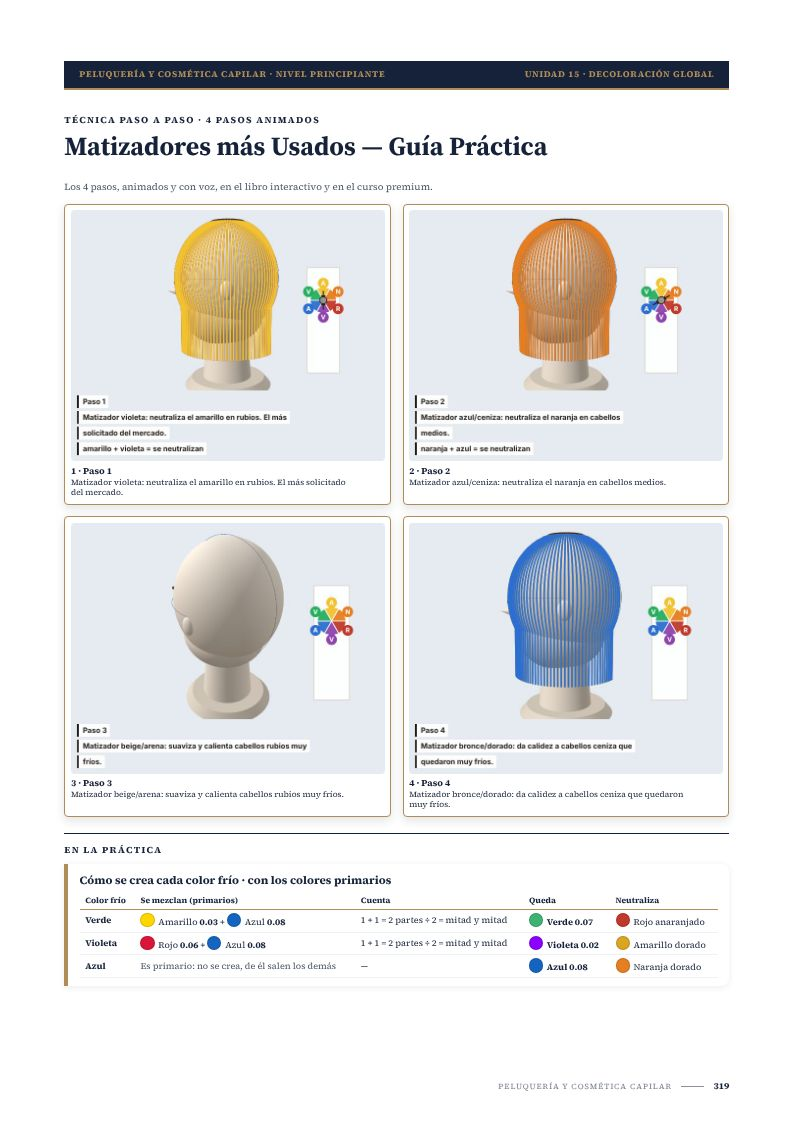
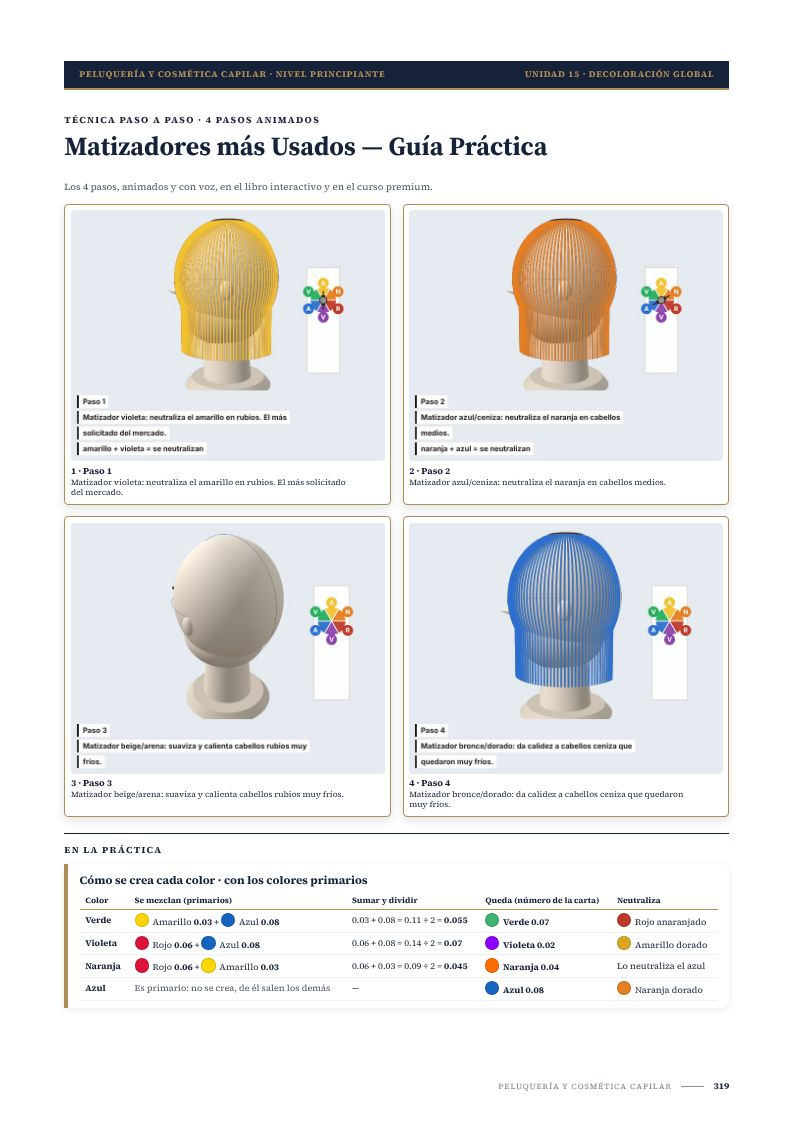
Peluquería: Matizadores más usados con la cuenta de sumar y dividir de cada mezcla de primarios y el número real de su carta
Claude-Session: https://claude.ai/code/session_011Pq1vHithoFwSmhgWbaCLQ

Changed region(s): [[0.1209, 0.7785, 0.8766, 0.903], [0.0605, 0.8719, 0.0907, 0.903]]

diff --git a/b6_pelu_llenar.js b/b6_pelu_llenar.js
@@ -121,7 +121,7 @@
      crea mezclando dos primarios mitad y mitad (1 + 1 = 2 partes ÷ 2), con los números REALES de su carta de correctores
      (EU_COLOR_CEREBRO.calc.colores.Correctores: amarillo, rojo, azul, verde, violeta); el azul es primario y no se crea. Al lado,
      lo que neutraliza cada frío según su estrella (calc.estrella). */
-  var MEZ = [['Verde', /^verde/i, [/^amarillo/i, /^azul/i], /verde/i], ['Violeta', /^violeta/i, [/^rojo/i, /^azul/i], /violeta/i], ['Azul', /^azul/i, null, /ceniza$/i]];
+  var MEZ = [['Verde', /^verde/i, [/^amarillo/i, /^azul/i], /verde/i], ['Violeta', /^violeta/i, [/^rojo/i, /^azul/i], /violeta/i], ['Naranja', /^naranja/i, [/^rojo/i, /^amarillo/i], null, 'Lo neutraliza el azul'], ['Azul', /^azul/i, null, /ceniza$/i]];
   function friosEstrella() {
     var B = window.EU_COLOR_CEREBRO, C = B && B.calc && B.calc.colores, K = C && C.Correctores, E = (B && B.calc && B.calc.estrella) || []; if (!K) return null;
     var de = function (re) { return K.filter(function (t) { return re.test(t.n || ''); })[0] || null; };
@@ -129,10 +129,10 @@
     MEZ.forEach(function (M) {
       var t = de(M[1]); if (!t) return;
       var p = M[2] ? M[2].map(de) : null; if (M[2] && (!p[0] || !p[1])) return;
-      var es = E.filter(function (e) { return M[3].test(String(e.c || '').replace(/\s+intenso$/i, '')); })[0];
-      filas.push({ fam: M[0], t: t, p: p, neu: es ? es.p : '', neuh: es ? es.ph : '' });
+      var es = M[3] ? E.filter(function (e) { return M[3].test(String(e.c || '').replace(/\s+intenso$/i, '')); })[0] : null;
+      filas.push({ fam: M[0], t: t, p: p, neu: es ? es.p : (M[4] || ''), neuh: es ? es.ph : '' });
     });
-    return filas.length ? { k: 'frios', keys: ['frios'], t: 'Cómo se crea cada color frío · con los colores primarios', filas: filas } : null;
+    return filas.length ? { k: 'frios', keys: ['frios'], t: 'Cómo se crea cada color · con los colores primarios', filas: filas } : null;
   }
   function esquemaFrios(x, T) {
     var acc = T.acc || '#16223A', acc2 = T.acc2 || '#B08D57', soft = T.soft || '#EEF1F6', ink = T.ink || '#16223A';
@@ -142,13 +142,14 @@
     var th = 'text-align:left;padding:.6mm 1.5mm;font-size:.92em;color:' + acc + ';border-bottom:.5mm solid ' + acc2;
     var filas = x.filas.map(function (f) {
       var mezcla = f.p ? pt(f.p[0].h) + nom(f.p[0]) + ' <b>' + esc(f.p[0].c) + '</b> + ' + pt(f.p[1].h) + nom(f.p[1]) + ' <b>' + esc(f.p[1].c) + '</b>' : '<span style="opacity:.8">Es primario: no se crea, de él salen los demás</span>';
-      var cuenta = f.p ? '1 + 1 = 2 partes ÷ 2 = mitad y mitad' : '—';
+      /* 22-11-2026 (Fátima eligió «cuenta + número de la carta»): la suma y la división de los dos números, tal cual, y en «Queda» el número real del color en su carta */
+      var sum = f.p ? +(+f.p[0].c + +f.p[1].c).toFixed(4) : 0, cuenta = f.p ? esc(f.p[0].c) + ' + ' + esc(f.p[1].c) + ' = ' + String(sum) + ' ÷ 2 = <b>' + String(+(sum / 2).toFixed(4)) + '</b>' : '—';
       return '<tr><td style="' + td + '"><b>' + esc(f.fam) + '</b></td><td style="' + td + '">' + mezcla + '</td><td style="' + td + '">' + cuenta + '</td>' +
-        '<td style="' + td + '">' + pt(f.t.h) + '<b>' + nom(f.t) + ' ' + esc(f.t.c) + '</b></td><td style="' + td + '">' + (f.neu ? pt(f.neuh) + esc(f.neu) : '') + '</td></tr>';
+        '<td style="' + td + '">' + pt(f.t.h) + '<b>' + nom(f.t) + ' ' + esc(f.t.c) + '</b></td><td style="' + td + '">' + (f.neu ? (f.neuh ? pt(f.neuh) : '') + esc(f.neu) : '') + '</td></tr>';
     }).join('');
     return '<div style="margin-top:2mm;padding:2mm 3mm;border-left:1.2mm solid ' + acc2 + ';background:#fff;border-radius:0 2mm 2mm 0;box-shadow:0 .4mm 1.6mm rgba(22,34,58,.08)">' +
       '<div style="font-weight:700;color:' + acc + ';margin:0 0 1mm;font-size:.9em">' + esc(x.t) + '</div>' +
-      '<table style="width:100%;border-collapse:collapse;font-size:.7em;color:' + ink + '"><thead><tr><th style="' + th + '">Color frío</th><th style="' + th + '">Se mezclan (primarios)</th><th style="' + th + '">Cuenta</th><th style="' + th + '">Queda</th><th style="' + th + '">Neutraliza</th></tr></thead><tbody>' + filas + '</tbody></table></div>';
+      '<table style="width:100%;border-collapse:collapse;font-size:.7em;color:' + ink + '"><thead><tr><th style="' + th + '">Color</th><th style="' + th + '">Se mezclan (primarios)</th><th style="' + th + '">Sumar y dividir</th><th style="' + th + '">Queda (número de la carta)</th><th style="' + th + '">Neutraliza</th></tr></thead><tbody>' + filas + '</tbody></table></div>';
   }
   var VISTAS = ['queda_nuca', 'queda_lateral', 'queda_frente', 'angulos'],   /* cómo queda (atrás, lado, frente) y sus ángulos: el mismo corte */ NOESC = /preparacion|cierre|aclarad|lavado/i;
   function escenasUnidad(u) {

diff --git a/Estudio Universal Pro.dc.html b/Estudio Universal Pro.dc.html
@@ -236,7 +236,7 @@ window.EU_DIFERIDOS = ["./b6_curriculo.js?v=1798300000003",
 "./b6_interactivo_todos.js?v=1797400000002",
 "./b6_texto_auto.js?v=1797400000002",
 "./b6_hojas_llenas.js?v=1799500000001",
-"./b6_dashboard_premium.js?v=1797900000002", "./b6_pelu_fotos_libro.js?v=1798300000015", "./b6_pelu_laminas_libro.js?v=1798300000031", "./b6_pelu_videos.js?v=1798600000001", "./b6_pelu_receta.js?v=1799500000001", "./b6_pelu_llenar.js?v=1799600000010"];
+"./b6_dashboard_premium.js?v=1797900000002", "./b6_pelu_fotos_libro.js?v=1798300000015", "./b6_pelu_laminas_libro.js?v=1798300000031", "./b6_pelu_videos.js?v=1798600000001", "./b6_pelu_receta.js?v=1799500000001", "./b6_pelu_llenar.js?v=1799600000012"];
 /* Antes eran 131 peticiones (una por módulo): el Editorial tardaba medio minuto y la conexión
    se saturaba. Ahora van en DOS archivos: b6_editorial_nucleo.js (motor, currículo, cerebros…,
    lo justo para abrir el Editorial) y b6_editorial_libs.js (las bibliotecas b6_lib_* de dibujos,

diff --git a/CLAUDE.md b/CLAUDE.md
@@ -305,4 +305,4 @@ y abrir `http://localhost:8000/Estudio%20Universal%20Pro.dc.html`.
   - **Rótulos:** `b6_pelu_diagrama.js` · `armar`: en colorimetría y técnicas los rótulos van en una franja DEBAJO del maniquí (`banda: 'abajo'` en `pinta`), nunca encima de la cabeza ni del cabello; las escenas de corte no cambian.
   - **Medición:** Profesional 600 → < 60 %: de 109 en producción a 6, la mayoría láminas del Regalo sin más contenido; ninguna hoja cortada.
   - **Informes:** `informes/medicion_400_600_pelu_2026-11-22.md`; capturas en `screenshots/diseno_pelu_22-11-2026_*`.
-- 22-11-2026 (Fátima: «los tonos fríos se crean con los colores primarios»): `b6_pelu_llenar.js` · pieza `frios` SOLO en la hoja de «Matizadores más usados — Guía práctica» (`pe_animada`, por título): «Cómo se crea cada color frío · con los colores primarios». Verde = amarillo + azul y violeta = rojo + azul, mitad y mitad (1 + 1 = 2 partes ÷ 2), con los números REALES de su carta de correctores (`EU_COLOR_CEREBRO.calc.colores.Correctores`: amarillo 0.03, rojo 0.06, azul 0.08 → verde 0.07, violeta 0.02); el azul es primario y no se crea. Al lado, lo que neutraliza cada frío según su estrella (`calc.estrella`). Ninguna otra clase lleva esta cuenta.
+- 22-11-2026 (Fátima: «los tonos fríos se crean con los colores primarios»; eligió «cuenta + número de la carta»): `b6_pelu_llenar.js` · pieza `frios` SOLO en la hoja de «Matizadores más usados — Guía práctica» (`pe_animada`, por título): «Cómo se crea cada color · con los colores primarios». Verde = amarillo + azul, violeta = rojo + azul, naranja = rojo + amarillo; columna «Sumar y dividir» con la cuenta tal cual de los números de su carta de correctores (`EU_COLOR_CEREBRO.calc.colores.Correctores`, p. ej. 0.03 + 0.08 = 0.11 ÷ 2 = 0.055) y «Queda» con el número real del color en la carta (verde 0.07, violeta 0.02, naranja 0.04); el azul es primario. «Neutraliza» de su estrella (`calc.estrella`). Ninguna otra clase lleva esta cuenta.
